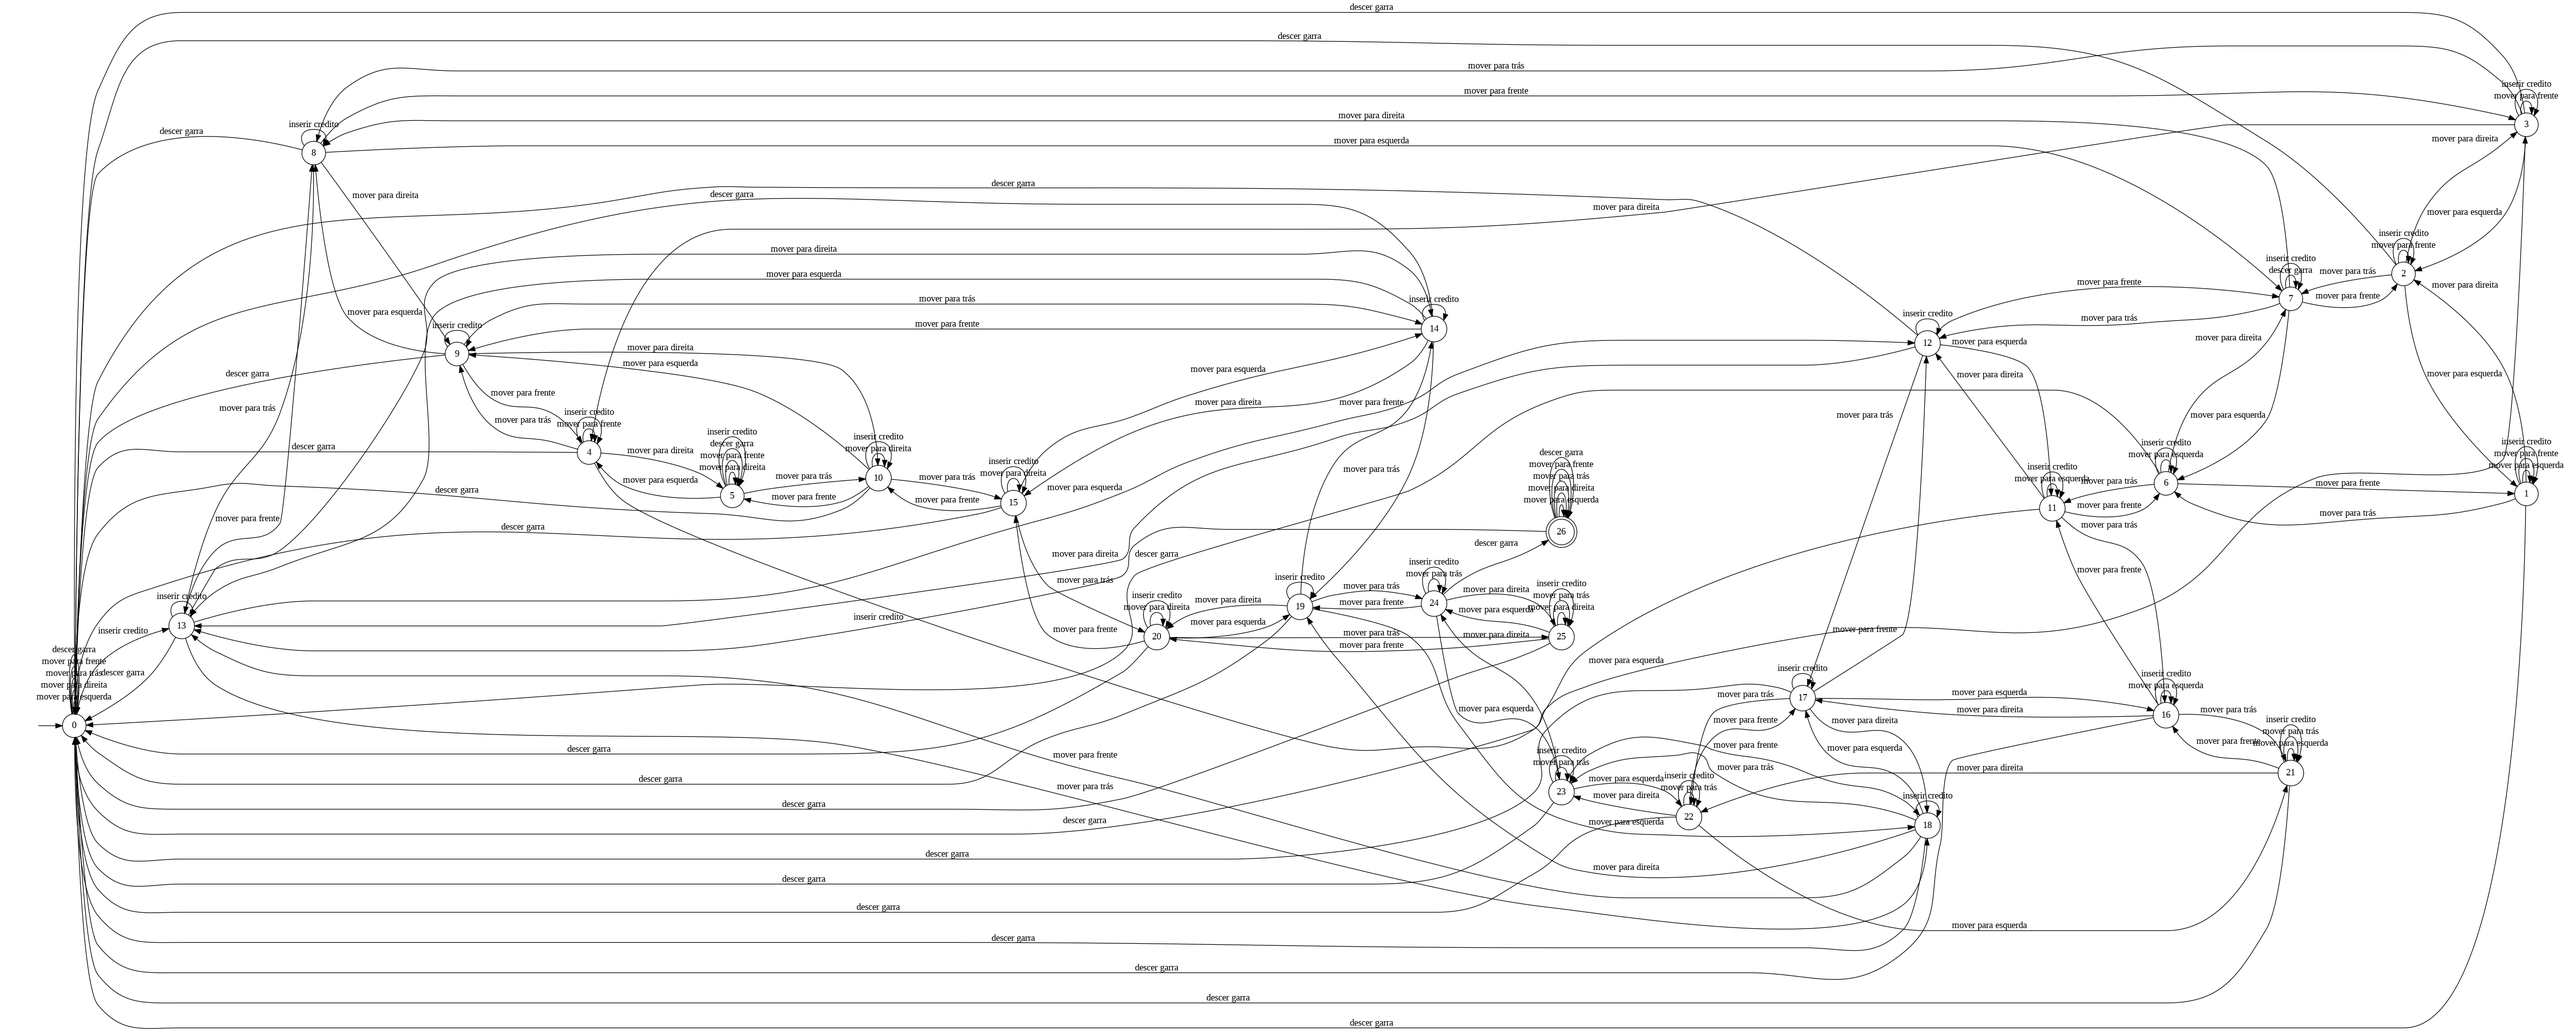
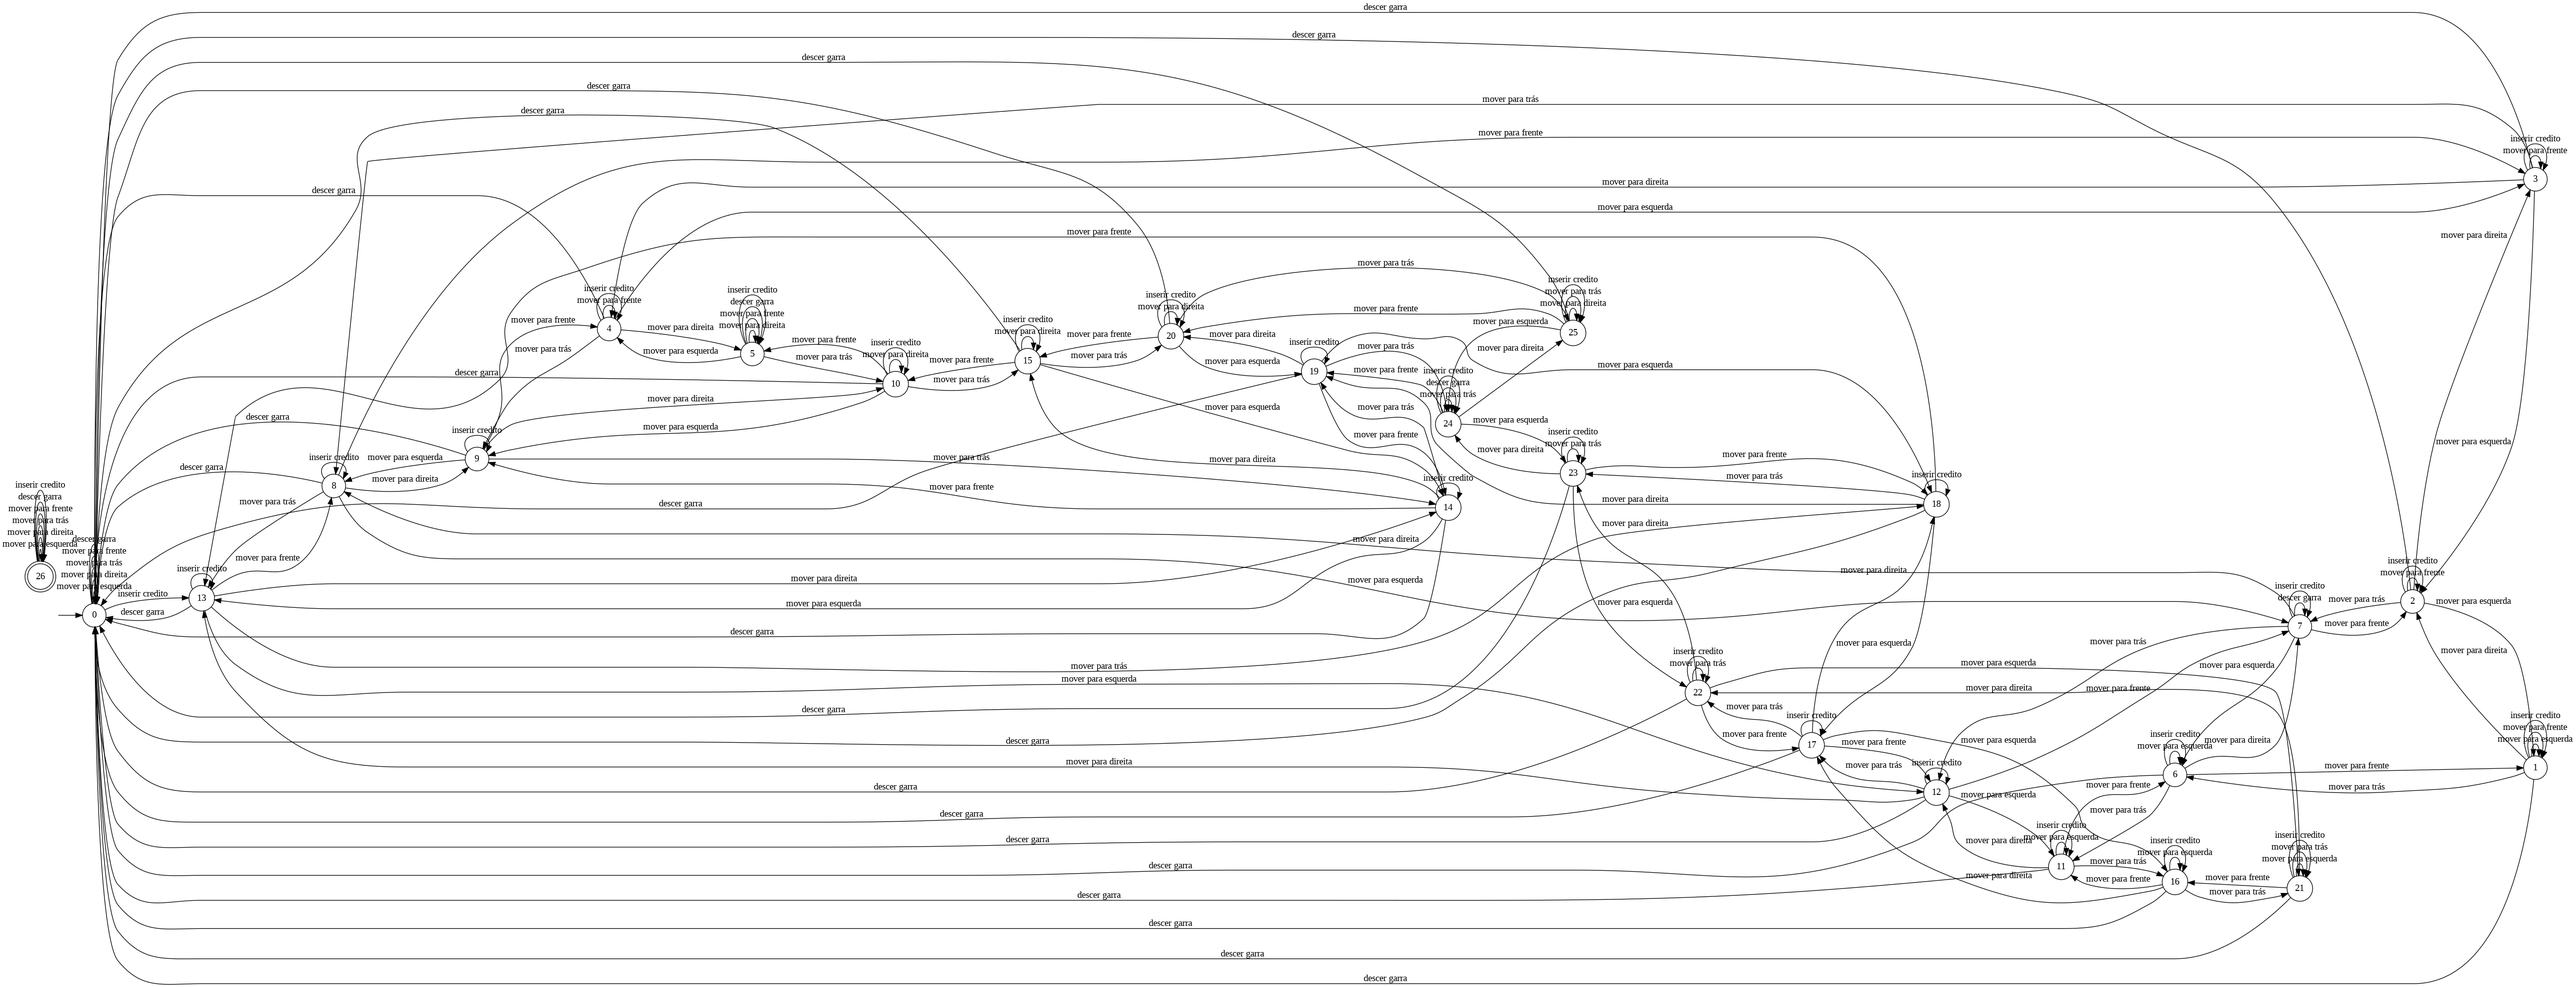
update image and code

diff --git a/projeto.py b/projeto.py
@@ -63,7 +63,7 @@ transicoes_formato_lib = {
     '23': { 'mover para esquerda': '22', 'mover para direita': '24', 'mover para trás': '23', 'mover para frente': '18', 'descer garra': '0' , 'inserir credito': '23' },
     '24': { 'mover para esquerda': '23', 'mover para direita': '25', 'mover para trás': '24', 'mover para frente': '19', 'descer garra': '26' , 'inserir credito': '24' },
     '25': { 'mover para esquerda': '24', 'mover para direita': '25', 'mover para trás': '25', 'mover para frente': '20', 'descer garra': '0' , 'inserir credito': '25' },
-    '26': { 'mover para esquerda': '26', 'mover para direita': '26', 'mover para trás': '26', 'mover para frente': '26', 'descer garra': '26' , 'inserir credito': '13' },
+    '26': { 'mover para esquerda': '26', 'mover para direita': '26', 'mover para trás': '26', 'mover para frente': '26', 'descer garra': '26' , 'inserir credito': '26' },
 }
 
 # usa a função randomize para fazer com que o ursinho seja pego em 50% das vezes ao descer a garra na posição correta
